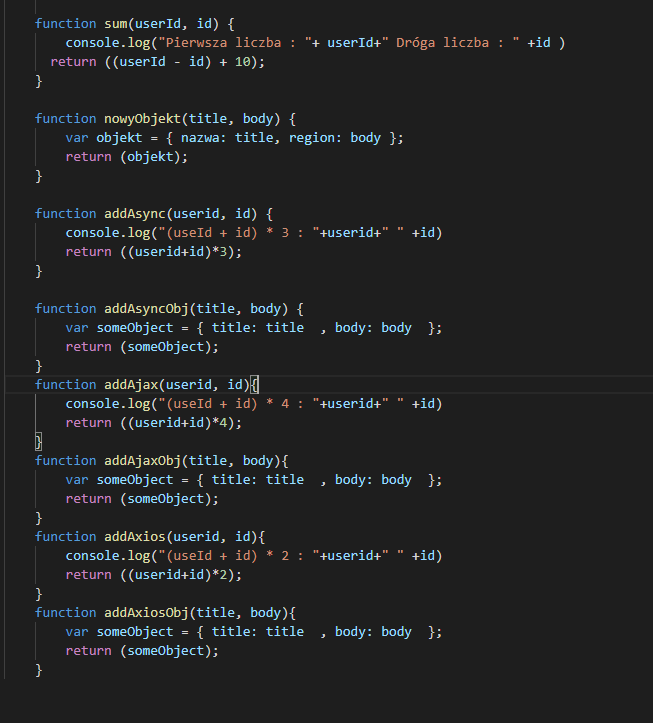
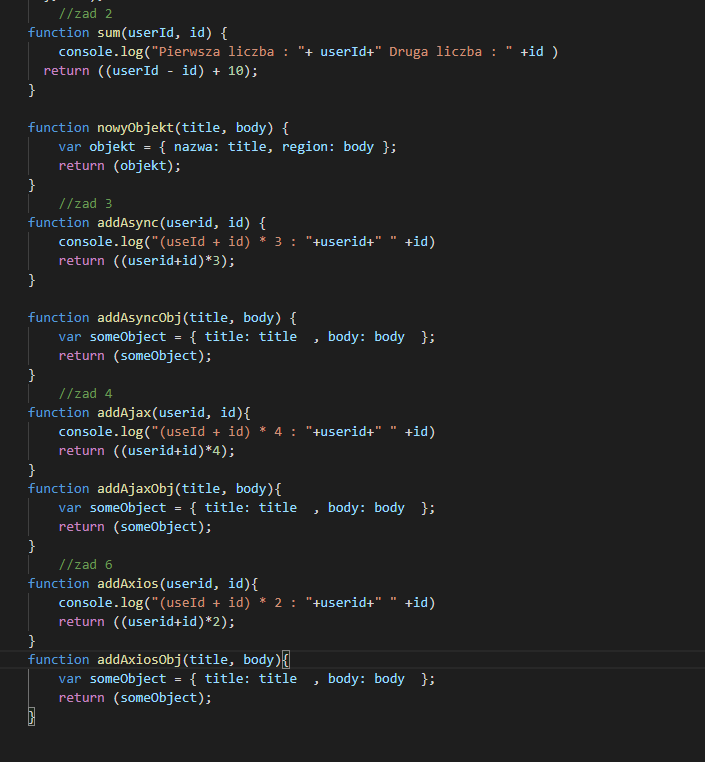
Commit lab 5

diff --git a/Lab5/funkcje.js b/Lab5/funkcje.js
@@ -173,9 +173,9 @@ function odliczanieh()
 	  getArticleAndCreateObject(callingCodes).finally(() => console.log('Koniec'));
 	  asyncAwait(url);
 	  }, 100);            
-
+		//zad 2
 	function sum(userId, id) {
-		console.log("Pierwsza liczba : "+ userId+" Dróga liczba : " +id )	
+		console.log("Pierwsza liczba : "+ userId+" Druga liczba : " +id )	
 	  return ((userId - id) + 10);
 	}
 
@@ -183,16 +183,17 @@ function odliczanieh()
 		var objekt = { nazwa: title, region: body };
 		return (objekt);
 	}
-
+		//zad 3
 	function addAsync(userid, id) {
 		console.log("(useId + id) * 3 : "+userid+" " +id)	
 		return ((userid+id)*3);
 	}
-
+		
 	function addAsyncObj(title, body) {
 		var someObject = { title: title  , body: body  };
 	 	return (someObject);
 	}
+		//zad 4
 	function addAjax(userid, id){
 		console.log("(useId + id) * 4 : "+userid+" " +id)	
 		return ((userid+id)*4);
@@ -201,6 +202,7 @@ function odliczanieh()
 		var someObject = { title: title  , body: body  };
 	 	return (someObject);
 	}
+		//zad 6
 	function addAxios(userid, id){
 		console.log("(useId + id) * 2 : "+userid+" " +id)	
 		return ((userid+id)*2);
